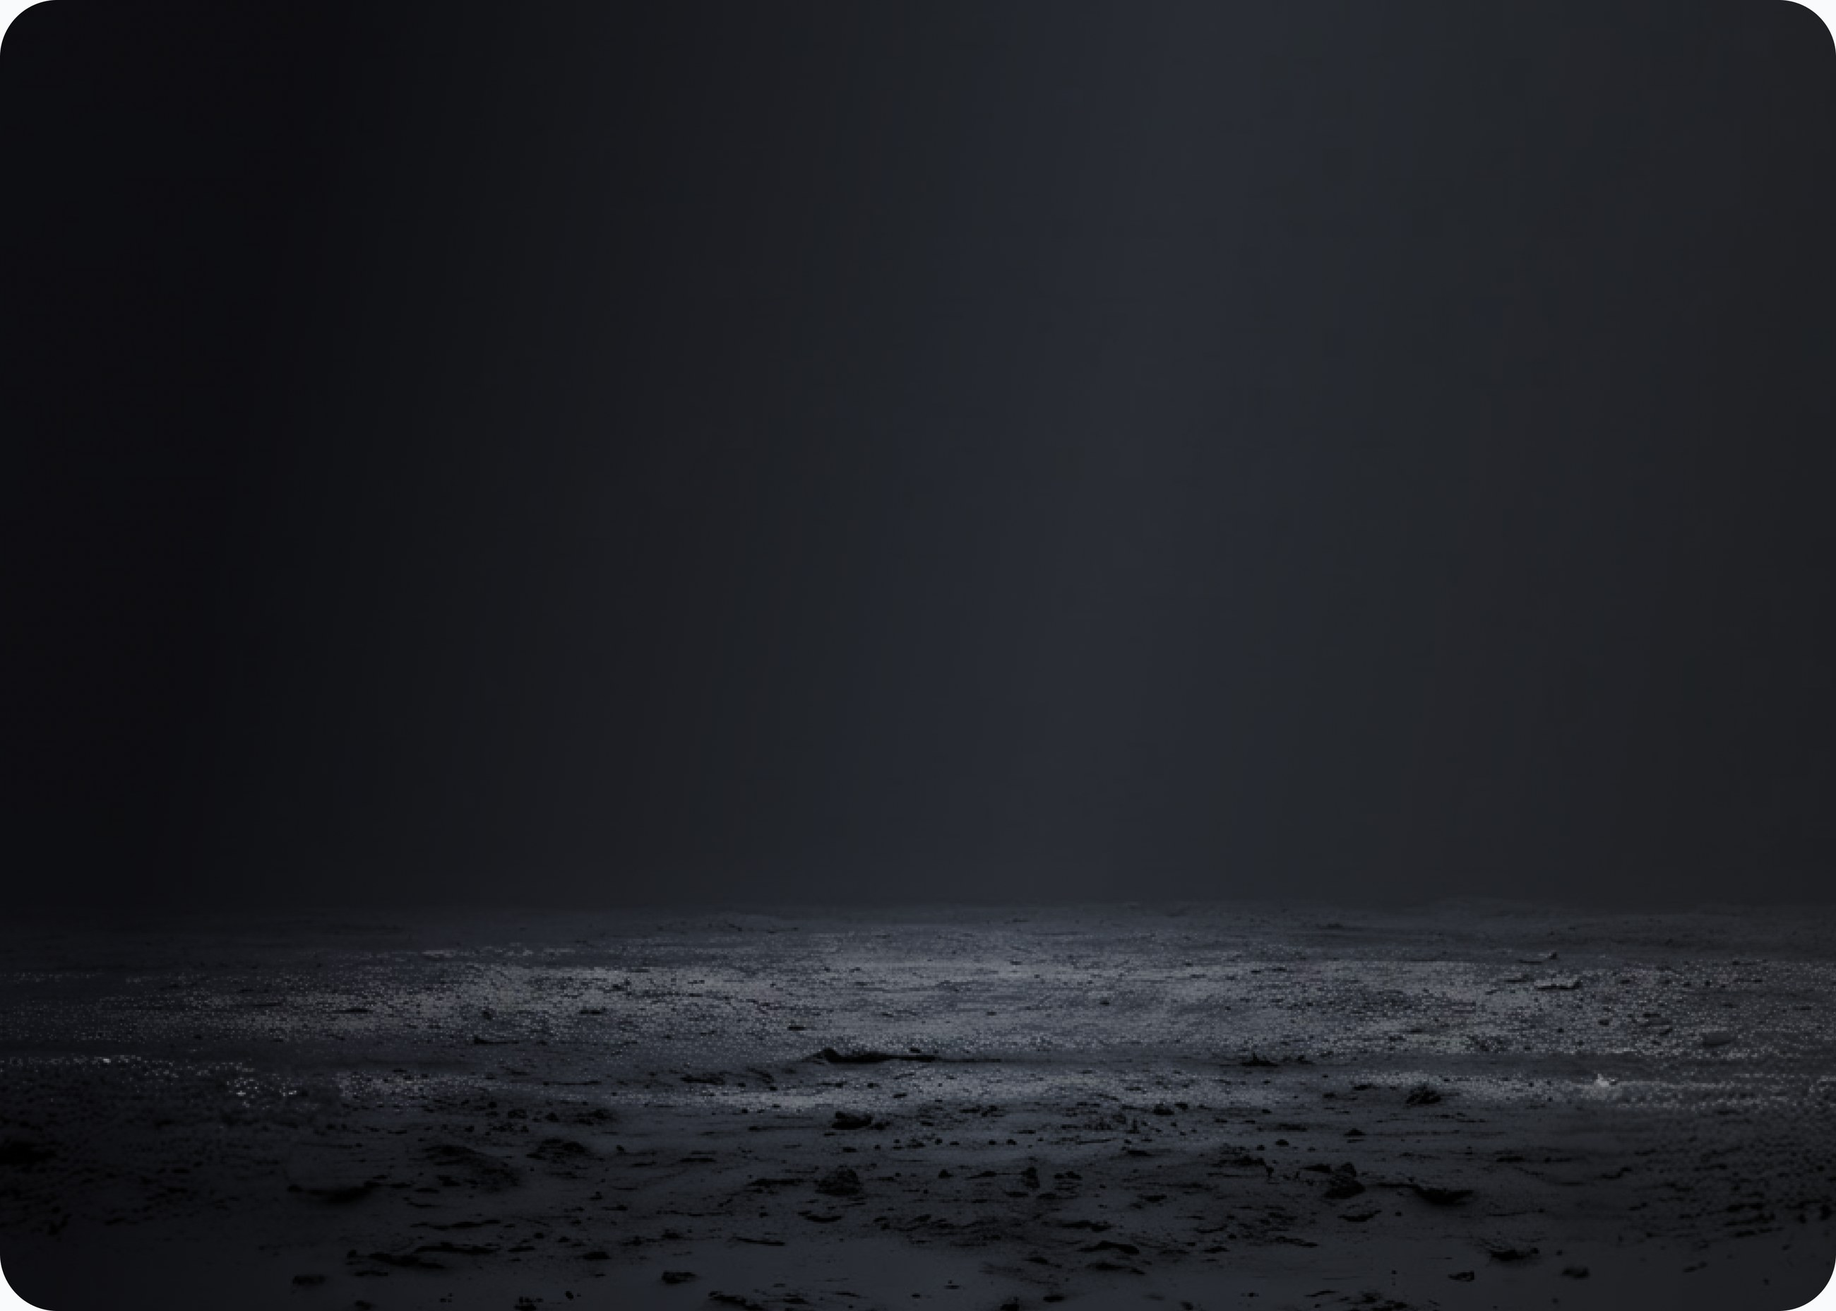
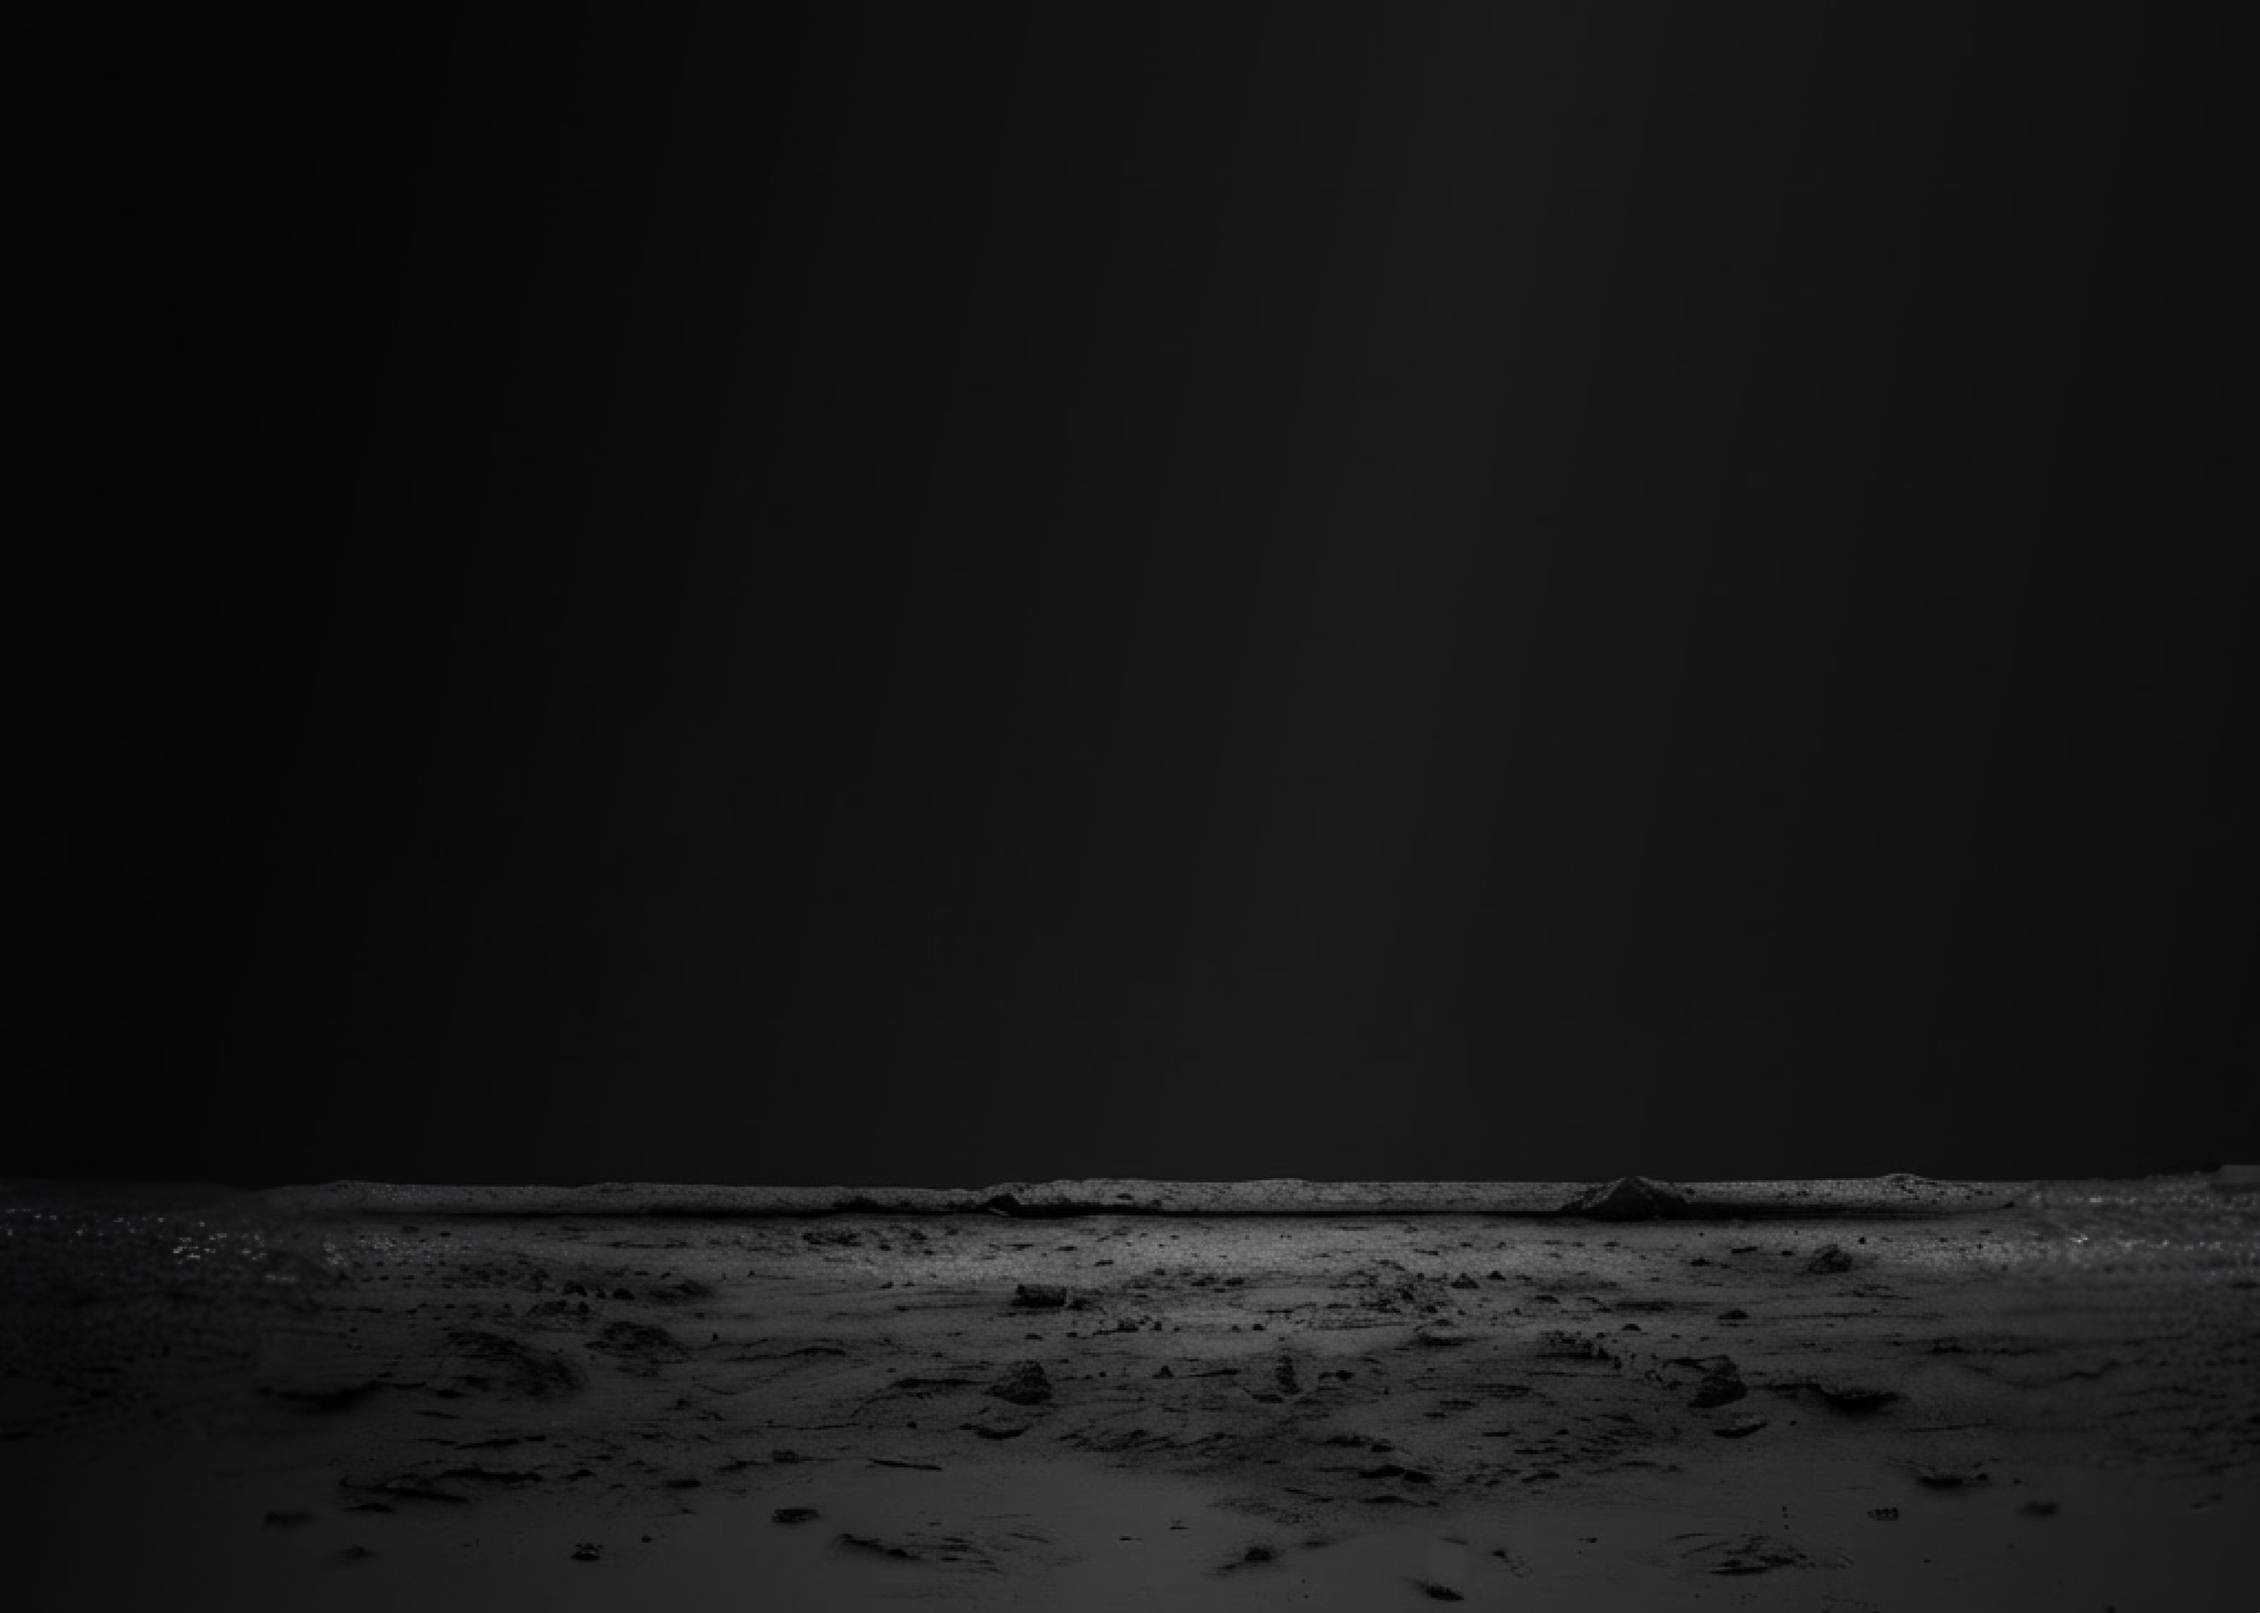
New plate and vehicle, faster feed, no hold after the reveal
The ground and the truck are both replaced. The truck arrives with a
hundred-odd pixels of transparent padding on every side, so it is
trimmed to its own alpha before being saved — `truckH` has to go on
meaning the height of the vehicle, since that is what the wheels
landing on the ground line are measured from. Trimmed it comes out at
3068x1019, which is 3.011 against the old asset's 3.010, so nothing
else about the framing moves. The plate's horizon sits at 0.7352 of
its height against the old one's 0.7349, so the ground line does not
move either.

The feed is about forty-five per cent quicker. The crawl over each
printed line is what gives it its character, so the ratio between
crawling and running is kept and the whole thing simply runs faster:
the slip is printed by 3.0s rather than 4.3, and down by 5.6 rather
than 6.9.

And the pickup line no longer sits there once it has finished
revealing. The sweep lands at about 5.2 and the next beat was waiting
until 7 — nearly two seconds of looking at a line that has stopped
doing anything. Everything after moves up with it.

diff --git a/src/App.tsx b/src/App.tsx
@@ -31,12 +31,18 @@ const BEATS = [
   { at: 1.55, step: 'gift' },
   /* Long enough to hold the line unrevealed, sweep it, and then look at it. */
   { at: 3.4, step: 'pickup' },
-  { at: 7.0, step: 'detail' },
-  { at: 9.3, step: 'page' },
+  /*
+   * Straight off the back of the reveal. The sweep now finishes at about 5.2
+   * and this used to wait until 7, which is nearly two seconds of a revealed
+   * line being looked at after it has finished revealing — long past the point
+   * where the next thing is what you are waiting for.
+   */
+  { at: 5.6, step: 'detail' },
+  { at: 7.9, step: 'page' },
   /* The page carries on below the fold, so it takes itself down it. */
-  { at: 11.8, step: 'offers' },
-  { at: 14.8, step: 'explore' },
-  { at: 17.4, step: 'more' },
+  { at: 10.4, step: 'offers' },
+  { at: 13.4, step: 'explore' },
+  { at: 16.0, step: 'more' },
 ] as const
 
 /** How far the page has scrolled at each stop, in frame pixels. */

diff --git a/src/components/PrintRig.tsx b/src/components/PrintRig.tsx
@@ -688,9 +688,12 @@ export function PrintRig({
       let v = 0
       await frames((dt) => {
         const onLine = bands.some(([a, b]) => y >= a && y <= b)
-        let target = onLine ? 115 : 250
+        /* Quicker on both counts. The slip is 470 long and the crawl over each
+           printed line is what gives the feed its character, so the ratio
+           between the two is kept and the whole thing simply runs faster. */
+        let target = onLine ? 168 : 365
         const left = H - y
-        if (left < 28) target = Math.max(38, left * 6)
+        if (left < 28) target = Math.max(56, left * 6)
         v += (target - v) * Math.min(1, dt * 6)
         y = Math.min(H, y + v * dt)
         setFeed(y)

diff --git a/src/scenes/GiftScene.tsx b/src/scenes/GiftScene.tsx
@@ -41,9 +41,9 @@ export const CARD = { x: 281, y: 336, w: 785, h: 300, r: 24 }
  * GROUND_LINE is where the ground falls in the plate, as a fraction of its
  * height. Every `top` is derived from it, so the wheels land on it.
  */
-const GROUND_ASPECT = 2600 / 1856
+const GROUND_ASPECT = 3200 / 2284
 const GROUND_LINE = 0.731
-const TRUCK_ASPECT = 2200 / 731
+const TRUCK_ASPECT = 3068 / 1019
 
 /** Ground line, truck height, and the truck's centre, per frame. */
 const SHOT = {
